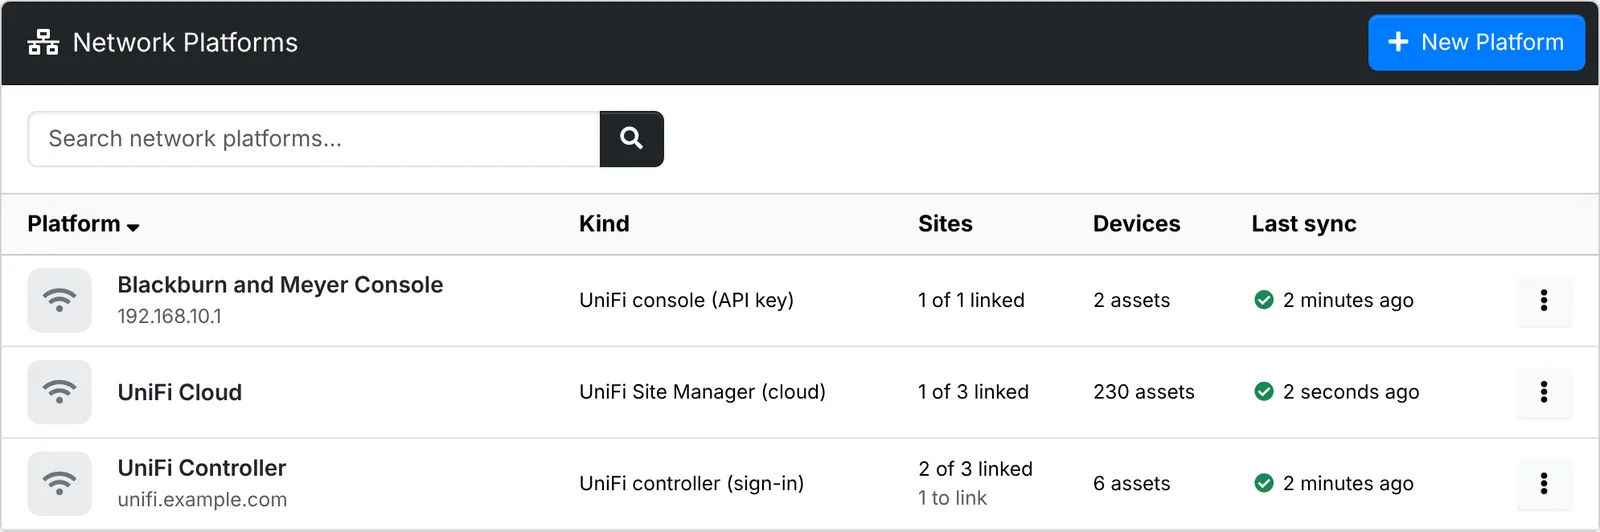
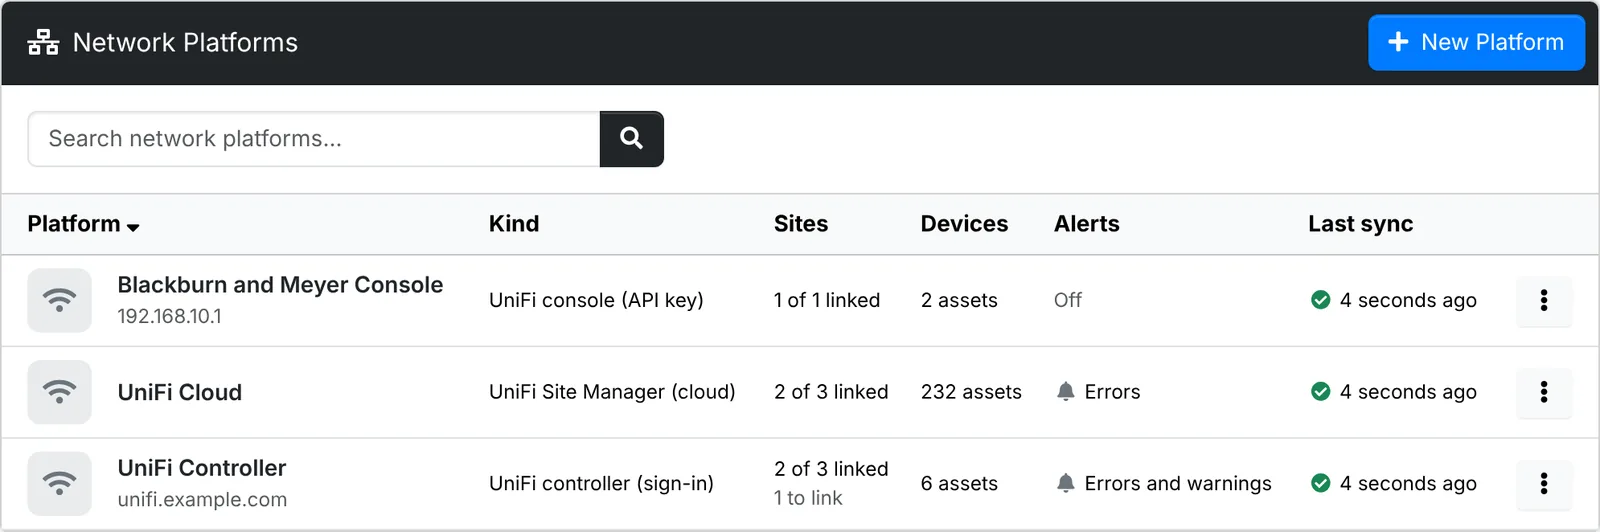
Docs: QoL 91 Offline alerts section on network platforms, with the RMM Alerts job on maintenance

diff --git a/content/admin/network-platforms.md b/content/admin/network-platforms.md
@@ -1,6 +1,6 @@
 ---
 title: Network platforms with UniFi
-description: Bring your clients' UniFi gateways, switches and access points into ITFlow as assets and keep them up to date - from a controller you host, a UniFi console, or UniFi's Site Manager.
+description: Bring your clients' UniFi gateways, switches and access points into ITFlow as assets, with their networks and VLANs, where each device plugs in, and a ticket when one goes offline - from a controller you host, a UniFi console, or UniFi's Site Manager.
 where: Admin > Network Platforms
 access: Admins
 ---
@@ -11,6 +11,7 @@ ITFlow reads the platform that manages your clients' networks, so their gateways
 - An asset shows whether the device is online, how long it's been up, its public IP and whether a firmware update is waiting. See [On the asset](#on-the-asset).
 - The site's networks and VLANs are the client's [networks](/documentation/networks), with their subnet, gateway, DNS and DHCP range kept up to date. See [Networks and VLANs](#networks).
 - Each of the client's assets shows where it plugs in - the switch and port, or the access point - and each switch and access point what's on it. See [Where things plug in](#where-things-plug-in).
+- A device that goes offline can open a ticket, resolved when it's back. See [Offline alerts](#offline-alerts).
 
 It works like an [RMM provider](/admin/rmm), and uses the same sync - but network platforms have a page of their own, and their devices don't count as [managed devices](/admin/rmm#billing).
 
@@ -60,7 +61,7 @@ Site Manager reaches each console through UniFi's cloud, so ITFlow needs no addr
 4. Under **Asset types**, pick what **Gateways**, **Switches**, **Access points** and **Other UniFi devices** come in as - ITFlow's own types, or one of [your own](/admin/asset-types). Leave them as they are to keep ITFlow's.
 5. Click **Create**. ITFlow signs in, brings in its sites and opens its **Sites** page. If something is wrong, it says what - a password or key UniFi turned away, an account with two-step sign-in, or a certificate that needs **Accept the certificate it made for itself**.
 
-![The New Network Platform window](adm-np-platform-form.webp "New Network Platform: a classic controller, signed in to with a local admin, and the asset type each kind of device comes in as")
+![The New Network Platform window](adm-np-platform-form.webp "New Network Platform: a classic controller, signed in to with a local admin, its offline alerts, and the asset type each kind of device comes in as")
 
 No devices come in yet. They come in once you link their site to a client.
 
@@ -141,6 +142,29 @@ What a site saw of a device is kept for 90 days after it was last seen. Moving a
 > [!NOTE]
 > Through a console or Site Manager, UniFi's API says which switch or access point a device is on, but not the port or Wi-Fi network, nor what UniFi's own devices are plugged into. A controller signed in to with a user name says all of it.
 
+## Offline alerts {#offline-alerts}
+
+A device that goes offline can open a ticket. UniFi has no alerts for ITFlow to read, so ITFlow asks it every minute which devices of the linked sites are offline, and makes them alerts:
+
+| Device | Alert |
+|---|---|
+| A gateway or switch | an error - a **High** priority ticket |
+| An access point, or anything else | a warning - a **Medium** priority ticket |
+
+Turn them on in the platform's **Edit**, with **Alerts open tickets** - **Errors** for gateways and switches only, **Errors and warnings** for every device - and, if you like, the **Ticket category** they go in. From there they work as [an RMM's alerts](/admin/rmm#alerts) do:
+
+- The ticket is on the device's asset, with no contact. The device going offline again while that ticket isn't closed goes on it as a note.
+- When the device is back online, its ticket gets a note and is resolved - unless someone has written on it or moved it to another status.
+- Devices already offline when you turn this on don't open tickets.
+
+![A ticket opened by an offline gateway](sd-ticket-unifi.webp "A gateway gone offline: one High priority ticket, saying the rest of the site went with it")
+
+**A site whose gateway goes offline** gets the one ticket, for the gateway, saying how many of the site's other devices went offline with it - not a ticket for every switch and access point behind it.
+
+**Through Site Manager**, a console that's offline can't be asked about its devices at all. When Site Manager says the console isn't connected, its site gets an alert on its gateway - "RDG UDM Pro went offline - Site Manager can't reach it" - resolved once the console is back.
+
+UniFi decides when a device is offline. One that reboots can be offline for a minute or two - long enough to open a ticket, which is resolved when it's back.
+
 ## When devices come and go {#devices-come-and-go}
 
 Devices come and go as they do from an RMM - see [When devices come and go](/admin/rmm#devices-come-and-go). A device removed from UniFi keeps its asset, marked as no longer there; most of a site's devices gone at once are held for a day; and a deleted asset comes back with **⋮ > Bring back** on its site's row.
@@ -149,18 +173,18 @@ A device that moves to another site is matched or made at that site's client, by
 
 ## The platform {#the-platform}
 
-![Network Platforms](adm-np-platforms.webp "Network Platforms: a controller, a console and a Site Manager account, how many of their sites are linked and their devices in ITFlow")
+![Network Platforms](adm-np-platforms.webp "Network Platforms: a controller, a console and a Site Manager account, how many of their sites are linked, their devices in ITFlow and which offline alerts open tickets")
 
-The list shows each platform, which kind it is, how many of its sites are linked and how many have a suggestion waiting, how many of its devices are assets here, and when it last synced. Hover over the sync to see what it brought in.
+The list shows each platform, which kind it is, how many of its sites are linked and how many have a suggestion waiting, how many of its devices are assets here, which [offline alerts](#offline-alerts) open tickets, and when it last synced. Hover over the sync to see what it brought in.
 
 From a platform's menu:
 
 - **Sites** - its [Sites page](#link).
-- **Edit** - its name, address, sign-in or key. Leave the password or key empty to keep the saved one. Which kind of UniFi it is can't be changed.
+- **Edit** - its name, address, sign-in or key, and its alerts. Leave the password or key empty to keep the saved one. Which kind of UniFi it is can't be changed.
 - **Sync Now** - bring in its linked sites' devices now.
 - **Test the Connection** - whether UniFi lets ITFlow in, how many sites and devices it sees, and - through Site Manager - any console it couldn't reach.
 - **Open UniFi** - the controller or console, or unifi.ui.com for Site Manager.
-- **Turn Off** - nothing is brought in. Assets keep what it last said.
+- **Turn Off** - nothing is brought in, and devices going offline don't open tickets. Assets keep what it last said.
 - **Delete** - the links between its sites and your clients are forgotten, and assets no longer show what it says. The assets stay.
 
 ## Syncing {#syncing}

diff --git a/content/admin/maintenance.md b/content/admin/maintenance.md
@@ -42,7 +42,7 @@ The list starts in the order the day runs - the every-minute jobs, then the nigh
 | AI Triage | every minute | Triages new tickets, when that's switched on |
 | Payment Provider Fees | every 15 minutes | Records Stripe's fee on each card payment as an expense, when that's switched on |
 | RMM Sync | every 15 minutes | Brings in the devices of the clients linked to your [RMM](/admin/rmm) and of the sites linked to your [network platforms](/admin/network-platforms), and keeps their assets up to date. Does nothing until one is set up. |
-| RMM Alerts | every minute | Opens a ticket for each new alert from an RMM whose alerts open tickets, and resolves it when the alert clears. See [RMM providers](/admin/rmm#alerts). |
+| RMM Alerts | every minute | Opens a ticket for each new alert from an RMM whose alerts open tickets, or for a device that goes offline on a [network platform](/admin/network-platforms#offline-alerts), and resolves it when the alert clears. See [RMM providers](/admin/rmm#alerts). |
 | Manager Check-in | every minute | Checks in with the ITFlow that [manages this one](/admin/managed-instances#managed-by). Only there when managed mode is [turned on](/admin/managed-instances#turn-on). |
 | Managed Instances | every 5 minutes | Notices [instances you manage](/admin/managed-instances) that have stopped checking in. Only there when managed mode is [turned on](/admin/managed-instances#turn-on). |
 | Backup | daily | Makes the scheduled backup, and any started from [Backup](#backup). Off until the schedule is turned on. |
